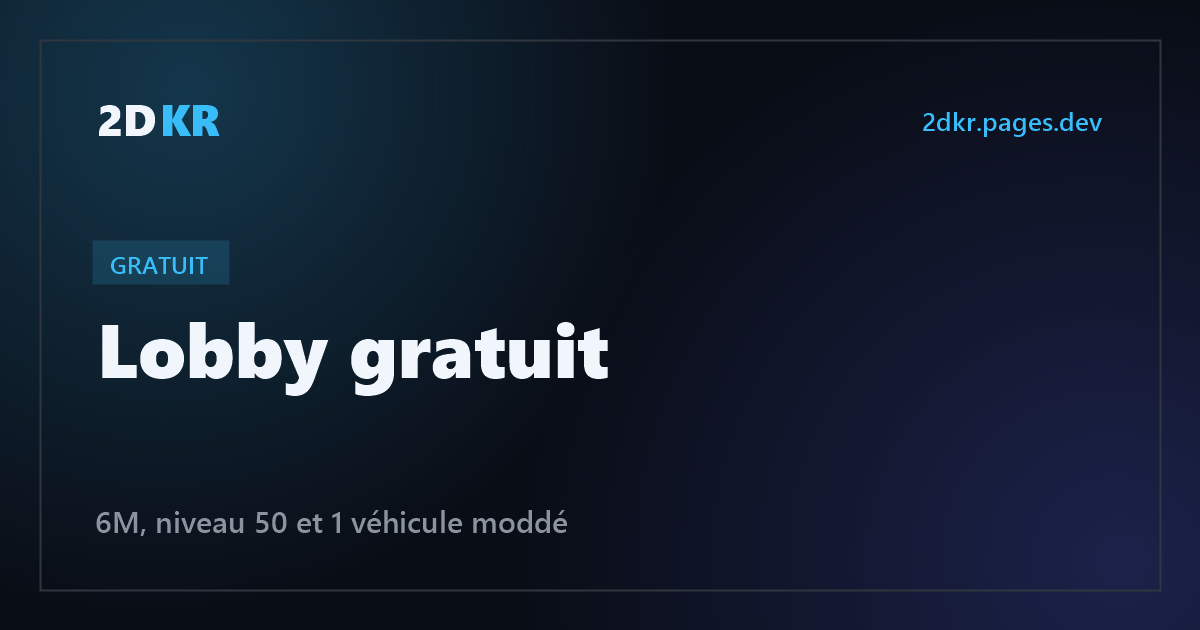
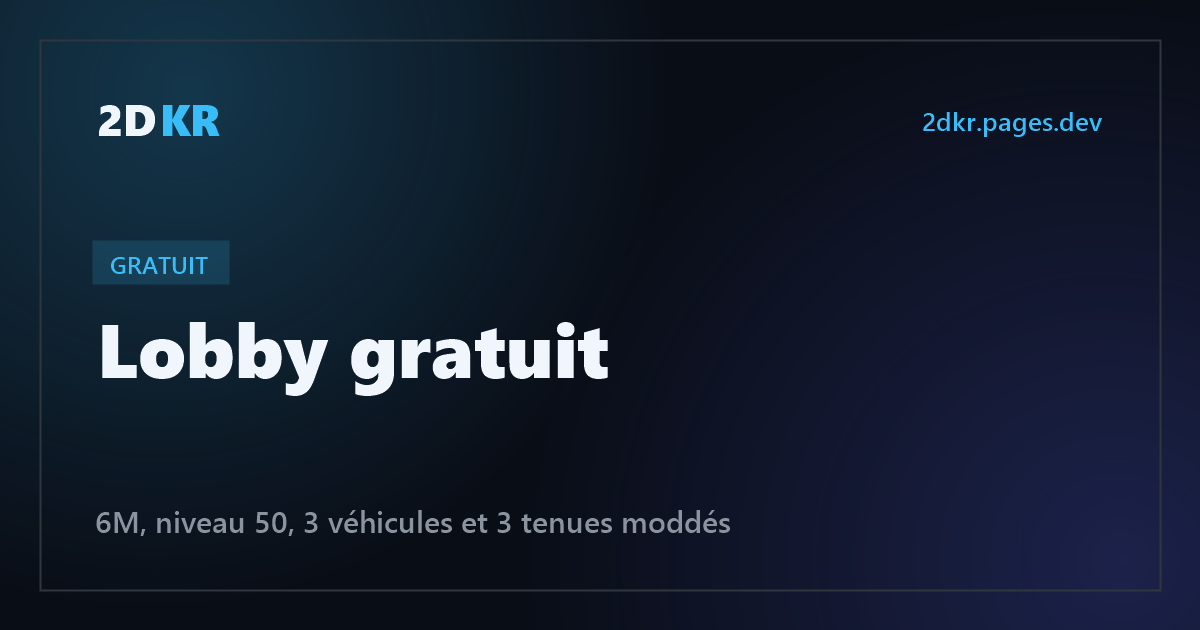
Lobby gratuit : 3 véhicules et 3 tenues moddés (6M, niveau 50 ou +50)

Changed region(s): [[0.2467, 0.8143, 0.6167, 0.8444]]

diff --git a/index.html b/index.html
@@ -890,7 +890,7 @@
             <h2>Lobby découverte</h2>
             <i class="fa-solid fa-gift" style="font-size: 1.4rem; color: var(--accent-orange);"></i>
           </div>
-          <p>Teste 2DKR gratuitement : <strong>6M, niveau 50 et 1 véhicule moddé</strong>. Sessions annoncées sur le Discord.</p>
+          <p>Teste 2DKR gratuitement : <strong>6M, niveau 50, 3 véhicules et 3 tenues moddés</strong>. Sessions annoncées sur le Discord.</p>
         </div>
         <a href="lobby.html" class="btn btn-blue"><i class="fa-solid fa-gift"></i> Voir le lobby gratuit</a>
       </div>
@@ -926,7 +926,7 @@
       <li><strong>Boutons de catégorie animés</strong> : ils font défiler jusqu'à la catégorie et la mettent en avant, sans rien cacher. Raccourcis vers chaque section sur Paiements &amp; garanties.</li>
       <li><strong>Nouvelle option +5M à 2 €</strong> : le premier achat idéal après le lobby gratuit, livré en 24h.</li>
       <li><strong>Menu plus simple</strong> : « Services » regroupe les packs, le lobby gratuit et le calculateur.</li>
-      <li><strong>Lobby découverte gratuit</strong> : 6M, niveau 50 (ou +50 niveaux si tu l'as déjà) et 1 véhicule moddé, sessions annoncées sur le Discord, sur sa propre page.</li>
+      <li><strong>Lobby découverte gratuit</strong> : 6M, niveau 50 (ou +50 niveaux si tu l'as déjà), 3 véhicules et 3 tenues moddés, sessions annoncées sur le Discord, sur sa propre page.</li>
       <li><strong>Paiements &amp; garanties</strong> : garantie anti-ban, remboursé à 100 % si ton compte est banni dans les 7 jours (conditions sur la page).</li>
       <li><strong>Tableau comparatif</strong> : la molette fait de nouveau défiler la page quand la souris est sur le tableau.</li>
     </ul>
@@ -1140,7 +1140,7 @@
       { t: 'Serveur Discord', s: 'Rejoindre la communauté 2DKR', u: 'https://discord.gg/mDpZT73FFG', p: 'Accueil', k: 'discord communaute ticket support chat' },
       { t: 'Paiements & garanties', s: 'PayPal, crypto, virement et frais', u: 'paiements.html', p: 'Paiements', k: 'paiement paiements frais commission paypal crypto solana virement banque carte argent' },
       { t: 'Garanties', s: 'Garantie anti-ban : remboursé si ban sous 7 jours', u: 'paiements.html#garanties', p: 'Paiements', k: 'garantie garanties ban banni rembourse remboursement securite conditions' },
-      { t: 'Lobby découverte gratuit', s: '6M, niveau 50 et 1 véhicule moddé', u: 'lobby.html', p: 'Lobby', k: 'lobby gratuit free decouverte essai test offert' },
+      { t: 'Lobby découverte gratuit', s: '6M, niveau 50, 3 véhicules et 3 tenues moddés', u: 'lobby.html', p: 'Lobby', k: 'lobby gratuit free decouverte essai test offert' },
       { t: 'Instant Gaming', s: 'Achète tes jeux via mon lien et soutiens 2DKR', u: 'https://www.instant-gaming.com/fr/?igr=Bydekur', p: 'Accueil', k: 'instant gaming jeu jeux cle key steam pc soutien affilie acheter' },
       { t: 'Pack Bronze', s: 'Pack d\'entrée lobby moddé', u: 'services.html', p: 'Services', k: 'pack bronze tarif prix lobby gta' },
       { t: 'Pack Argent', s: 'Pack intermédiaire', u: 'services.html', p: 'Services', k: 'pack argent silver tarif prix lobby' },

diff --git a/lobby.html b/lobby.html
@@ -6,10 +6,10 @@
   <title>2DKR — Lobby gratuit</title>
   
   <meta property="og:title" content="2DKR — Lobby gratuit">
-  <meta property="og:description" content="Lobby découverte gratuit 2DKR : 6M, niveau 50 et 1 véhicule moddé pour tester avant de commander.">
+  <meta property="og:description" content="Lobby découverte gratuit 2DKR : 6M, niveau 50, 3 véhicules et 3 tenues moddés pour tester avant de commander.">
   <meta property="og:type" content="website">
   <meta name="theme-color" content="#38bdf8">
-  <meta name="description" content="Lobby gratuit 2DKR sur GTA Online : 6M, niveau 50 (ou +50 niveaux) et 1 véhicule moddé, une fois par compte. Sessions annoncées sur Discord.">
+  <meta name="description" content="Lobby gratuit 2DKR sur GTA Online : 6M, niveau 50 (ou +50 niveaux), 3 véhicules et 3 tenues moddés, une fois par compte. Sessions annoncées sur Discord.">
   <link rel="canonical" href="https://2dkr.pages.dev/lobby">
   <meta property="og:url" content="https://2dkr.pages.dev/lobby">
   <meta property="og:site_name" content="2DKR">
@@ -796,7 +796,11 @@
       </div>
       <div class="lobby-get">
         <i class="fa-solid fa-car" aria-hidden="true"></i>
-        <strong>1 véhicule moddé</strong>
+        <strong>3 véhicules moddés</strong>
+      </div>
+      <div class="lobby-get">
+        <i class="fa-solid fa-shirt" aria-hidden="true"></i>
+        <strong>3 tenues moddées</strong>
       </div>
     </div>
 
@@ -939,7 +943,7 @@
       { t: 'Serveur Discord', s: 'Rejoindre la communauté 2DKR', u: 'https://discord.gg/mDpZT73FFG', p: 'Accueil', k: 'discord communaute ticket support chat' },
       { t: 'Paiements & garanties', s: 'PayPal, crypto, virement et frais', u: 'paiements.html', p: 'Paiements', k: 'paiement paiements frais commission paypal crypto solana virement banque carte argent' },
       { t: 'Garanties', s: 'Garantie anti-ban : remboursé si ban sous 7 jours', u: 'paiements.html#garanties', p: 'Paiements', k: 'garantie garanties ban banni rembourse remboursement securite conditions' },
-      { t: 'Lobby découverte gratuit', s: '6M, niveau 50 et 1 véhicule moddé', u: 'lobby.html', p: 'Lobby', k: 'lobby gratuit free decouverte essai test offert' },
+      { t: 'Lobby découverte gratuit', s: '6M, niveau 50, 3 véhicules et 3 tenues moddés', u: 'lobby.html', p: 'Lobby', k: 'lobby gratuit free decouverte essai test offert' },
       { t: 'Instant Gaming', s: 'Achète tes jeux via mon lien et soutiens 2DKR', u: 'https://www.instant-gaming.com/fr/?igr=Bydekur', p: 'Accueil', k: 'instant gaming jeu jeux cle key steam pc soutien affilie acheter' },
       { t: 'Pack Bronze', s: 'Pack d\'entrée lobby moddé', u: 'services.html', p: 'Services', k: 'pack bronze tarif prix lobby gta' },
       { t: 'Pack Argent', s: 'Pack intermédiaire', u: 'services.html', p: 'Services', k: 'pack argent silver tarif prix lobby' },

diff --git a/avis.html b/avis.html
@@ -868,7 +868,7 @@ Pour menu ou lobby 10/10 parfait"</p>
       { t: 'Serveur Discord', s: 'Rejoindre la communauté 2DKR', u: 'https://discord.gg/mDpZT73FFG', p: 'Accueil', k: 'discord communaute ticket support chat' },
       { t: 'Paiements & garanties', s: 'PayPal, crypto, virement et frais', u: 'paiements.html', p: 'Paiements', k: 'paiement paiements frais commission paypal crypto solana virement banque carte argent' },
       { t: 'Garanties', s: 'Garantie anti-ban : remboursé si ban sous 7 jours', u: 'paiements.html#garanties', p: 'Paiements', k: 'garantie garanties ban banni rembourse remboursement securite conditions' },
-      { t: 'Lobby découverte gratuit', s: '6M, niveau 50 et 1 véhicule moddé', u: 'lobby.html', p: 'Lobby', k: 'lobby gratuit free decouverte essai test offert' },
+      { t: 'Lobby découverte gratuit', s: '6M, niveau 50, 3 véhicules et 3 tenues moddés', u: 'lobby.html', p: 'Lobby', k: 'lobby gratuit free decouverte essai test offert' },
       { t: 'Instant Gaming', s: 'Achète tes jeux via mon lien et soutiens 2DKR', u: 'https://www.instant-gaming.com/fr/?igr=Bydekur', p: 'Accueil', k: 'instant gaming jeu jeux cle key steam pc soutien affilie acheter' },
       { t: 'Pack Bronze', s: 'Pack d\'entrée lobby moddé', u: 'services.html', p: 'Services', k: 'pack bronze tarif prix lobby gta' },
       { t: 'Pack Argent', s: 'Pack intermédiaire', u: 'services.html', p: 'Services', k: 'pack argent silver tarif prix lobby' },

diff --git a/paiements.html b/paiements.html
@@ -1069,7 +1069,7 @@
       { t: 'Serveur Discord', s: 'Rejoindre la communauté 2DKR', u: 'https://discord.gg/mDpZT73FFG', p: 'Accueil', k: 'discord communaute ticket support chat' },
       { t: 'Paiements & garanties', s: 'PayPal, crypto, virement et frais', u: 'paiements.html', p: 'Paiements', k: 'paiement paiements frais commission paypal crypto solana virement banque carte argent' },
       { t: 'Garanties', s: 'Garantie anti-ban : remboursé si ban sous 7 jours', u: 'paiements.html#garanties', p: 'Paiements', k: 'garantie garanties ban banni rembourse remboursement securite conditions' },
-      { t: 'Lobby découverte gratuit', s: '6M, niveau 50 et 1 véhicule moddé', u: 'lobby.html', p: 'Lobby', k: 'lobby gratuit free decouverte essai test offert' },
+      { t: 'Lobby découverte gratuit', s: '6M, niveau 50, 3 véhicules et 3 tenues moddés', u: 'lobby.html', p: 'Lobby', k: 'lobby gratuit free decouverte essai test offert' },
       { t: 'Instant Gaming', s: 'Achète tes jeux via mon lien et soutiens 2DKR', u: 'https://www.instant-gaming.com/fr/?igr=Bydekur', p: 'Accueil', k: 'instant gaming jeu jeux cle key steam pc soutien affilie acheter' },
       { t: 'Pack Bronze', s: 'Pack d\'entrée lobby moddé', u: 'services.html', p: 'Services', k: 'pack bronze tarif prix lobby gta' },
       { t: 'Pack Argent', s: 'Pack intermédiaire', u: 'services.html', p: 'Services', k: 'pack argent silver tarif prix lobby' },

diff --git a/services.html b/services.html
@@ -1242,7 +1242,7 @@
       { t: 'Serveur Discord', s: 'Rejoindre la communauté 2DKR', u: 'https://discord.gg/mDpZT73FFG', p: 'Accueil', k: 'discord communaute ticket support chat' },
       { t: 'Paiements & garanties', s: 'PayPal, crypto, virement et frais', u: 'paiements.html', p: 'Paiements', k: 'paiement paiements frais commission paypal crypto solana virement banque carte argent' },
       { t: 'Garanties', s: 'Garantie anti-ban : remboursé si ban sous 7 jours', u: 'paiements.html#garanties', p: 'Paiements', k: 'garantie garanties ban banni rembourse remboursement securite conditions' },
-      { t: 'Lobby découverte gratuit', s: '6M, niveau 50 et 1 véhicule moddé', u: 'lobby.html', p: 'Lobby', k: 'lobby gratuit free decouverte essai test offert' },
+      { t: 'Lobby découverte gratuit', s: '6M, niveau 50, 3 véhicules et 3 tenues moddés', u: 'lobby.html', p: 'Lobby', k: 'lobby gratuit free decouverte essai test offert' },
       { t: 'Instant Gaming', s: 'Achète tes jeux via mon lien et soutiens 2DKR', u: 'https://www.instant-gaming.com/fr/?igr=Bydekur', p: 'Accueil', k: 'instant gaming jeu jeux cle key steam pc soutien affilie acheter' },
       { t: 'Pack Bronze', s: 'Pack d\'entrée lobby moddé', u: 'services.html', p: 'Services', k: 'pack bronze tarif prix lobby gta' },
       { t: 'Pack Argent', s: 'Pack intermédiaire', u: 'services.html', p: 'Services', k: 'pack argent silver tarif prix lobby' },

diff --git a/calculateur.html b/calculateur.html
@@ -992,7 +992,7 @@
       { t: 'Serveur Discord', s: 'Rejoindre la communauté 2DKR', u: 'https://discord.gg/mDpZT73FFG', p: 'Accueil', k: 'discord communaute ticket support chat' },
       { t: 'Paiements & garanties', s: 'PayPal, crypto, virement et frais', u: 'paiements.html', p: 'Paiements', k: 'paiement paiements frais commission paypal crypto solana virement banque carte argent' },
       { t: 'Garanties', s: 'Garantie anti-ban : remboursé si ban sous 7 jours', u: 'paiements.html#garanties', p: 'Paiements', k: 'garantie garanties ban banni rembourse remboursement securite conditions' },
-      { t: 'Lobby découverte gratuit', s: '6M, niveau 50 et 1 véhicule moddé', u: 'lobby.html', p: 'Lobby', k: 'lobby gratuit free decouverte essai test offert' },
+      { t: 'Lobby découverte gratuit', s: '6M, niveau 50, 3 véhicules et 3 tenues moddés', u: 'lobby.html', p: 'Lobby', k: 'lobby gratuit free decouverte essai test offert' },
       { t: 'Instant Gaming', s: 'Achète tes jeux via mon lien et soutiens 2DKR', u: 'https://www.instant-gaming.com/fr/?igr=Bydekur', p: 'Accueil', k: 'instant gaming jeu jeux cle key steam pc soutien affilie acheter' },
       { t: 'Pack Bronze', s: 'Pack d\'entrée lobby moddé', u: 'services.html', p: 'Services', k: 'pack bronze tarif prix lobby gta' },
       { t: 'Pack Argent', s: 'Pack intermédiaire', u: 'services.html', p: 'Services', k: 'pack argent silver tarif prix lobby' },
